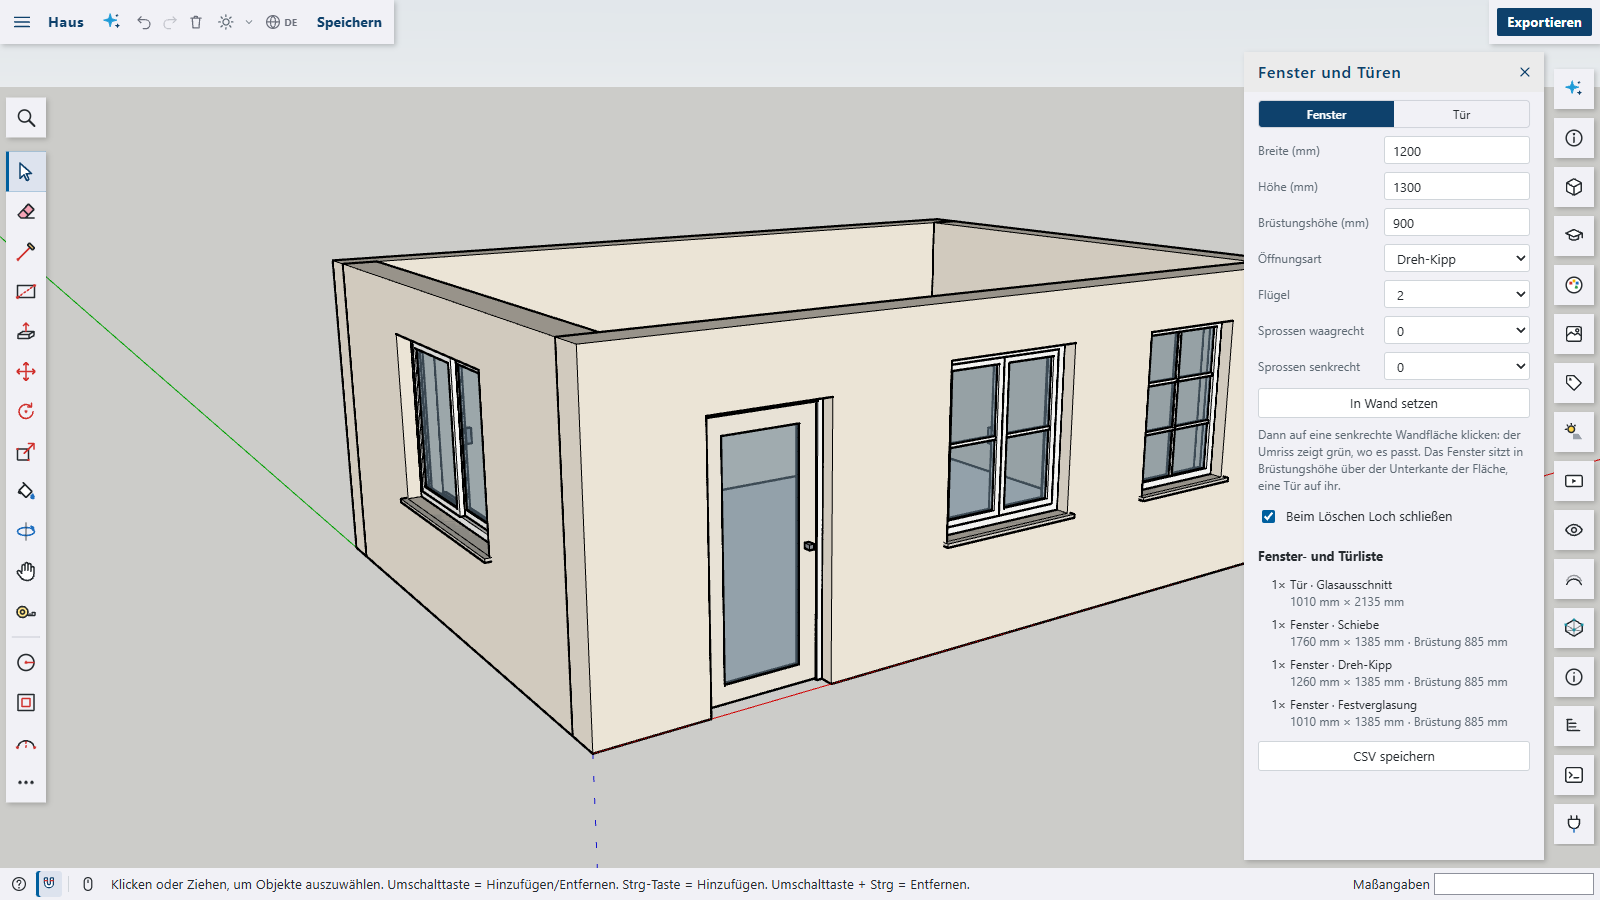
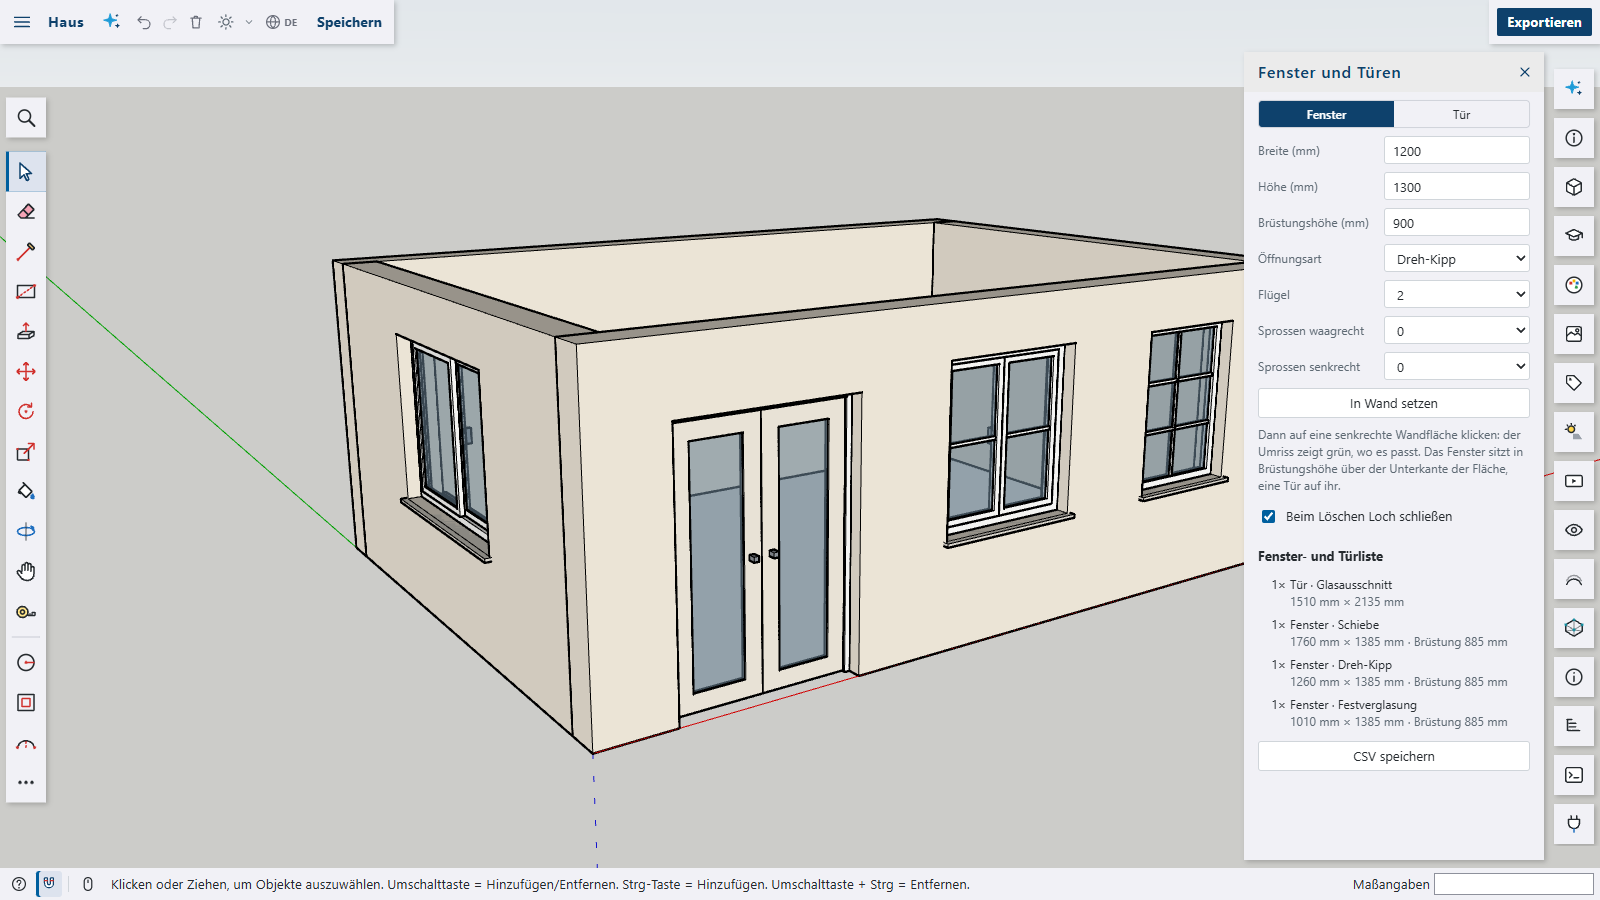
feat(openings): double doors (1.6.0)

Changed region(s): [[0.4062, 0.4356, 0.5625, 0.8089]]

diff --git a/plugins/openings/src/pieces.ts b/plugins/openings/src/pieces.ts
@@ -44,22 +44,34 @@ export const openingPieces = (params: OpeningParams, thickness: number): Piece[]
     add('frame', 'frame', boxMesh([width - jamb, front, 0], [width, back, height]));
     add('frame', 'frame', boxMesh([jamb, front, height - jamb], [width - jamb, back, height]));
     const [leafFront, leafBack] = [middle - 0.02, middle + 0.02];
-    const [x0, x1, z0, z1] = [jamb + 0.003, width - jamb - 0.003, 0.01, height - jamb - 0.003];
-    if (params.glazed) {
-      const rail = Math.min(0.14, (x1 - x0) / 4);
-      add('leaf', 'leaf', frameMesh(x0, z0, x1, z1, rail, leafFront, leafBack));
-      pane(x0 + rail, x1 - rail, z0 + rail, z1 - rail, middle, false);
-    } else {
-      add('leaf', 'leaf', boxMesh([x0, leafFront, z0], [x1, leafBack, z1]));
-    }
-    // the handle on the side away from the hinges, on both faces of the leaf
-    const handleX = params.hinge === 'left' ? width - jamb - 0.08 : jamb + 0.08;
-    for (const [y0, y1] of [
-      [leafFront - 0.06, leafFront],
-      [leafBack, leafBack + 0.06],
-    ]) {
-      add('handle', 'handle', boxMesh([handleX - 0.02, y0, 1.03], [handleX + 0.02, y1, 1.07]));
-    }
+    const [left, right, z0, z1] = [jamb + 0.003, width - jamb - 0.003, 0.01, height - jamb - 0.003];
+    // a double door: two leaves meeting in the middle, hinged on both sides
+    const double = clamp(params.sashes ?? 1, 1, 2) === 2;
+    const gap = 0.004;
+    const leaves = double
+      ? [
+          [left, (left + right - gap) / 2],
+          [(left + right + gap) / 2, right],
+        ]
+      : [[left, right]];
+    leaves.forEach(([x0, x1], index) => {
+      if (params.glazed) {
+        const rail = Math.min(0.14, (x1 - x0) / 4);
+        add('leaf', 'leaf', frameMesh(x0, z0, x1, z1, rail, leafFront, leafBack));
+        pane(x0 + rail, x1 - rail, z0 + rail, z1 - rail, middle, false);
+      } else {
+        add('leaf', 'leaf', boxMesh([x0, leafFront, z0], [x1, leafBack, z1]));
+      }
+      // the handle on the side away from the leaf's hinges (a double door: by the middle), on both faces
+      const handleRight = double ? index === 0 : params.hinge === 'left';
+      const handleX = handleRight ? x1 - 0.08 : x0 + 0.08;
+      for (const [y0, y1] of [
+        [leafFront - 0.06, leafFront],
+        [leafBack, leafBack + 0.06],
+      ]) {
+        add('handle', 'handle', boxMesh([handleX - 0.02, y0, 1.03], [handleX + 0.02, y1, 1.07]));
+      }
+    });
     return pieces;
   }
 

diff --git a/plugins/openings/src/S3dOpeningsPanel.vue b/plugins/openings/src/S3dOpeningsPanel.vue
@@ -35,10 +35,16 @@
     <label v-for="key in COUNT_KEYS" :key="key" class="s3d-op-field">
       <span>{{ t(`openings.fields.${key}`) }}</span>
       <select class="s3d-input" :value="String(shown[key])" @change="set({ [key]: Number(valueOf($event)) })">
-        <option v-for="count in key === 'sashes' ? [1, 2, 3] : [0, 1, 2, 3, 4]" :key="count" :value="String(count)">{{ count }}</option>
+        <option
+          v-for="count in key !== 'sashes' ? [0, 1, 2, 3, 4] : shown.kind === 'door' ? [1, 2] : [1, 2, 3]"
+          :key="count"
+          :value="String(count)"
+        >
+          {{ count }}
+        </option>
       </select>
     </label>
-    <label v-if="shown.kind === 'door'" class="s3d-op-field">
+    <label v-if="shown.kind === 'door' && shown.sashes !== 2" class="s3d-op-field">
       <span>{{ t('openings.fields.hinge') }}</span>
       <select class="s3d-input" :value="shown.hinge" @change="set({ hinge: valueOf($event) as OpeningParams['hinge'] })">
         <option value="left">{{ t('openings.hinge.left') }}</option>
@@ -114,7 +120,9 @@ const selected = computed(() => {
 });
 const shown = computed((): OpeningParams => selected.value ?? drafts[chosen.kind]);
 const SIZE_KEYS = computed(() => (shown.value.kind === 'door' ? (['width', 'height'] as const) : (['width', 'height', 'sill'] as const)));
-const COUNT_KEYS = computed(() => (shown.value.kind === 'door' ? [] : (['sashes', 'barsAcross', 'barsUpright'] as const)));
+const COUNT_KEYS = computed(() =>
+  shown.value.kind === 'door' ? (['sashes'] as const) : (['sashes', 'barsAcross', 'barsUpright'] as const),
+);
 const closing = computed(() => {
   void editor.ui.revision;
   return closesHoles(context);

diff --git a/plugins/openings/docs/demo.js b/plugins/openings/docs/demo.js
@@ -1,5 +1,5 @@
-// Demo for the windows and doors screenshot (npm run screenshots): the walls of a small house as four groups, a glazed front
-// door, tilt-and-turn, fixed and sliding windows with glazing bars – all set with s3d.opening(), the holes cut through the walls.
+// Demo for the windows and doors screenshot (npm run screenshots): the walls of a small house as four groups, a glazed double
+// front door, tilt-and-turn, fixed and sliding windows with glazing bars – all set with s3d.opening(), the holes cut through the walls.
 s3d.clear();
 s3d.editor.model.name = 'Haus';
 s3d.material('Putz', '#ebe4d6');
@@ -11,8 +11,8 @@ wall([0, depth - thickness, 0], length, thickness);
 const left = wall([0, thickness, 0], thickness, depth - 2 * thickness);
 wall([length - thickness, thickness, 0], thickness, depth - 2 * thickness);
 
-// the front: a glazed door, a tilt-and-turn window and a fixed one; the side: a sliding window
-s3d.opening(front, { at: [1.4, 0, 1], kind: 'door', width: 1.01, height: 2.135, hinge: 'left', glazed: true });
+// the front: a glazed double door, a tilt-and-turn window and a fixed one; the side: a sliding window
+s3d.opening(front, { at: [1.4, 0, 1], kind: 'door', width: 1.51, height: 2.135, sashes: 2, glazed: true });
 s3d.opening(front, { at: [3.6, 0, 1.5], width: 1.26, height: 1.385, sill: 0.885, sashes: 2, barsAcross: 1 });
 s3d.opening(front, { at: [5.6, 0, 1.5], width: 1.01, height: 1.385, sill: 0.885, sashes: 1, barsAcross: 2, barsUpright: 1, operation: 'fixed' });
 s3d.opening(left, { at: [0, 2.5, 1.5], width: 1.76, height: 1.385, sill: 0.885, sashes: 2, operation: 'sliding' });

diff --git a/plugins/openings/test/parts.test.ts b/plugins/openings/test/parts.test.ts
@@ -94,3 +94,17 @@ test('a glazed door: the leaf is a frame round a glass pane', () => {
   );
   pieces.forEach((piece) => volumeOf(piece.mesh));
 });
+
+test('a double door: two leaves meeting in the middle, a handle by the middle on each', () => {
+  const pieces = openingPieces({ ...DEFAULT_DOOR, width: 1.6, sashes: 2, glazed: true }, 0.3);
+  const of = (name: string) => pieces.filter((piece) => piece.name === name);
+  assert.deepEqual([of('leaf').length, of('glass').length, of('handle').length], [2, 2, 4]);
+  const span = (piece: (typeof pieces)[number]) => {
+    const xs = piece.mesh.vertices.map((point) => point[0]);
+    return [Math.min(...xs), Math.max(...xs)];
+  };
+  const [[, firstRight], [secondLeft]] = of('leaf').map(span);
+  assert.ok(firstRight < 0.8 && secondLeft > 0.8 && secondLeft - firstRight < 0.01, 'they meet in the middle');
+  assert.ok(of('handle').every((handle) => Math.abs((span(handle)[0] + span(handle)[1]) / 2 - 0.8) < 0.15), 'handles by the middle');
+  pieces.forEach((piece) => volumeOf(piece.mesh));
+});

diff --git a/plugins/openings/src/list.ts b/plugins/openings/src/list.ts
@@ -24,7 +24,7 @@ export const schedule = (context: PluginContext): ScheduleRow[] => {
         walk(instance.definition.entities);
         continue;
       }
-      const sashes = data.kind === 'door' ? 1 : data.sashes;
+      const sashes = data.kind === 'door' ? (data.sashes === 2 ? 2 : 1) : data.sashes;
       const type = data.kind === 'door' ? (data.glazed ? 'glazed' : 'solid') : (data.operation ?? 'casement');
       const key = [data.kind, type, data.width.toFixed(3), data.height.toFixed(3), data.sill.toFixed(3), sashes].join('|');
       const row = rows.get(key) ?? { kind: data.kind, type, width: data.width, height: data.height, sill: data.sill, sashes, count: 0 };

diff --git a/plugins/openings/src/parts.ts b/plugins/openings/src/parts.ts
@@ -18,7 +18,7 @@ export interface OpeningParams {
   height: number;
   /** height of the window's bottom above the wall's bottom (doors: 0) */
   sill: number;
-  /** window: side by side sashes (1–3) */
+  /** window: side by side sashes (1–3); door: its leaves (1–2) */
   sashes: number;
   /** window: glazing bars across and upright in each sash (0–4) */
   barsAcross: number;

diff --git a/plugins/openings/src/index.ts b/plugins/openings/src/index.ts
@@ -18,7 +18,7 @@ type OpeningCall = Partial<OpeningParams> & { at?: [number, number, number] };
 const openingsPlugin: S3dPlugin = {
   id: 'openings',
   name: 'openings.plugin.name',
-  version: '1.5.0',
+  version: '1.6.0',
   author: 'Shap3D.ai',
   description: 'openings.plugin.description',
   messages: MESSAGES,

diff --git a/plugins/openings/README.md b/plugins/openings/README.md
@@ -6,7 +6,7 @@ Parametric windows and doors, set into any wall with a click: the opening is cut
 
 ## Use
 
-1. _Plugins › Windows and doors…_: choose _Window_ or _Door_ and its sizes in mm – width, height and (windows) sill height. A window opens tilt and turn, casement or sliding, or is fixed glazing (panes in the frame, mullions between), with one to three sashes and glazing bars; a door has its hinges left or right and a solid or a glazed leaf.
+1. _Plugins › Windows and doors…_: choose _Window_ or _Door_ and its sizes in mm – width, height and (windows) sill height. A window opens tilt and turn, casement or sliding, or is fixed glazing (panes in the frame, mullions between), with one to three sashes and glazing bars; a door has one leaf (hinges left or right) or two (a double door), solid or glazed.
 2. _Set into wall_, then move over a vertical wall face: the outline follows the pointer, green where it fits, red where it would leave the face or overlap another opening. A window sits at its sill height above the bottom of the face, a door on it.
 3. Click: the hole goes through the wall (the wall's thickness is found by itself; a single face just gets the hole) and the window or door is set into the middle of the wall. One undo step. Esc stops.
 4. Select a window or door (inside its wall's group) to change any of its settings. Sashes, glazing bars and hinges build its pieces again; a new width, height or sill height closes the old hole (healed into the wall faces) and cuts the new one, centred where the old one was – when it does not fit, nothing changes.
@@ -36,6 +36,6 @@ npm test        # the pieces are closed and face out
 
 ## Limits and plans
 
-- Vertical wall faces only; the opening is a rectangle. Arched and round windows, door leaves with panels, double doors, roller shutters and plan symbols for LayOut are planned.
+- Vertical wall faces only; the opening is a rectangle. Arched and round windows, door leaves with panels, roller shutters and plan symbols for LayOut are planned.
 - Turned or scaled windows get no hole; only moves keep it.
 - Walls of "Parts from lines" keep their windows when built again; rooms of the room planner have their own doors and windows.

diff --git a/plugins/openings/CHANGELOG.md b/plugins/openings/CHANGELOG.md
@@ -4,6 +4,12 @@
 
 Nothing yet.
 
+## [1.6.0] – 2026-11-28 · Shap3D.ai 0.12.0
+
+### Added
+
+- **Double doors**: a door with two leaves (_Leaves_ 2) – they meet in the middle, are hinged on both sides and have their handles by the middle; solid or glazed. The schedule counts the leaves; `s3d.opening` takes `sashes: 2` for a door.
+
 ## [1.5.0] – 2026-11-28 · Shap3D.ai 0.12.0
 
 ### Added
